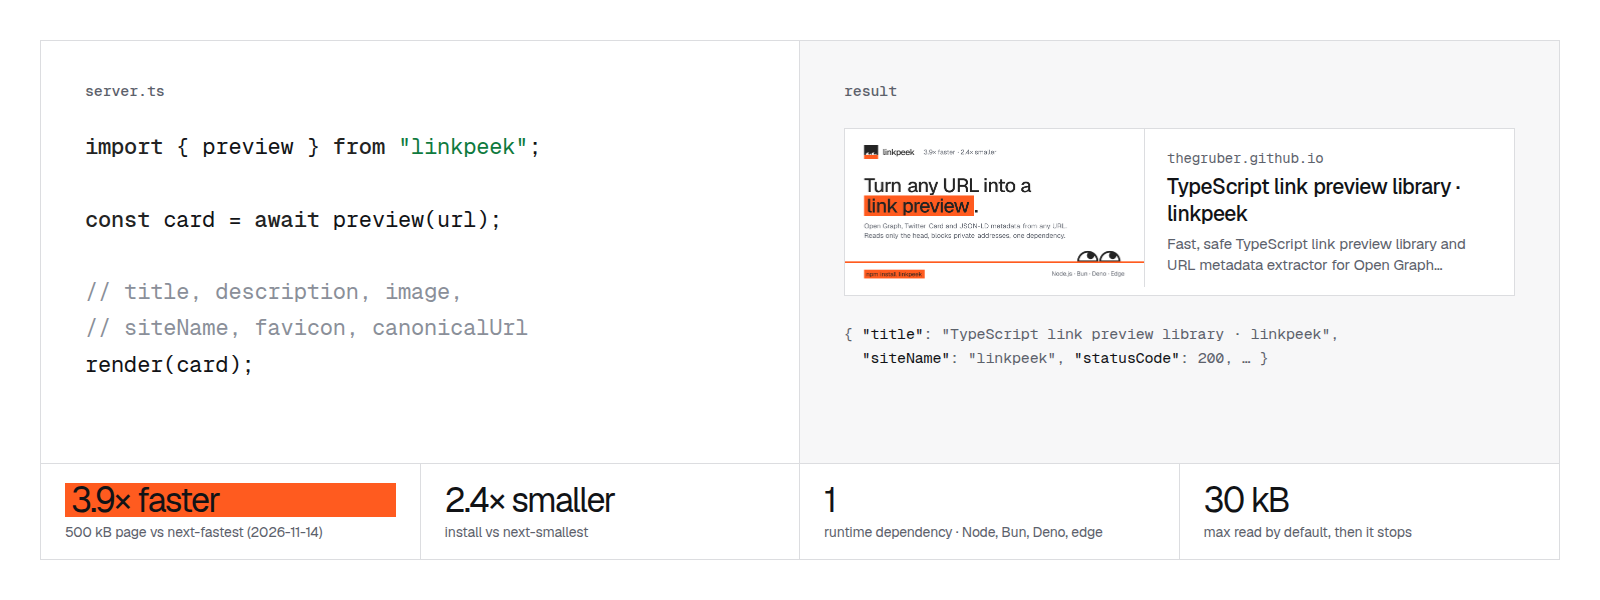
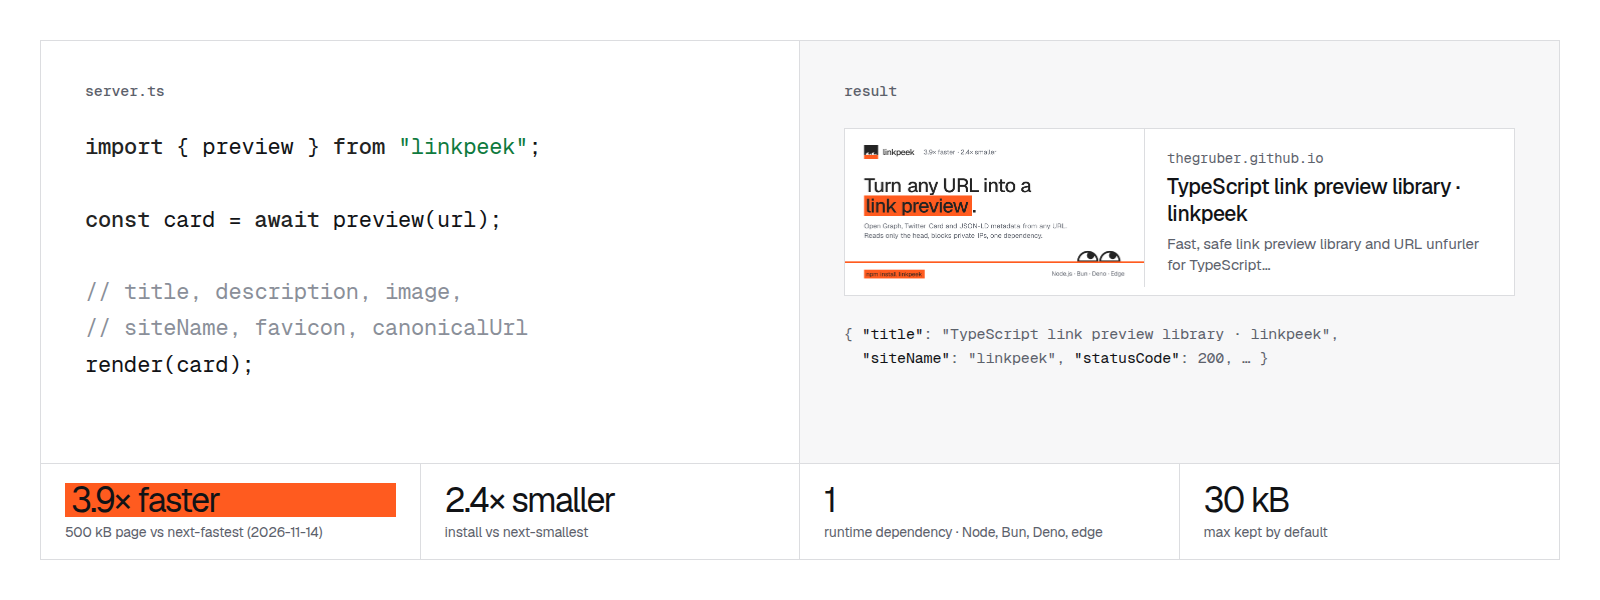
feat(brand): plain wordmark, and social images without overclaims
Underlining only "link" split the name in two and read like a hover
state at header size. The mark already carries the orange band. Social
and README images now say "blocks private IPs" and "max kept".

diff --git a/website/app/og/[...slug]/route.tsx b/website/app/og/[...slug]/route.tsx
@@ -20,7 +20,7 @@ export async function GET(
 		: "Turn any URL into a link preview.";
 	const description =
 		page?.data.description ??
-		"Open Graph, Twitter Card and JSON-LD metadata from any URL. Reads only the head, blocks private addresses, one dependency.";
+		"Open Graph, Twitter Card and JSON-LD metadata from any URL. Reads only the head, blocks private IPs, one dependency.";
 	const section = page
 		? page.slugs[0] === "integrations"
 			? "Integration guide"
@@ -90,7 +90,7 @@ export async function GET(
 					) : (
 						<span style={{ display: "flex", flexWrap: "wrap" }}>
 							Turn any URL into a&nbsp;
-							<span style={{ background: "#ff5b1f", padding: "0 10px" }}>
+							<span style={{ background: "#ff5b1f", padding: "0 6px" }}>
 								link preview
 							</span>
 							.

diff --git a/website/components/logo.tsx b/website/components/logo.tsx
@@ -27,12 +27,7 @@ export function Logo() {
 	return (
 		<span className="group/logo inline-flex items-center gap-2 font-medium text-[1.05rem] tracking-[-0.045em]">
 			<Mark />
-			<span>
-				<span className="underline decoration-[#ff5b1f] decoration-[0.14em] underline-offset-[0.18em]">
-					link
-				</span>
-				peek
-			</span>
+			<span>linkpeek</span>
 		</span>
 	);
 }

diff --git a/AGENTS.md b/AGENTS.md
@@ -29,7 +29,7 @@
 - `npm run build --prefix website` also runs `scripts/check-site.mjs` (one H1, canonical, social tags, JSON-LD, Markdown twins, links, sitemap). Keep it passing.
 
 ## Brand
-- The mark is two white eyes peeking over a signal-orange `#ff5b1f` band (the `<head>`) on a charcoal `#232323` square; in the wordmark "link" is underlined in the same orange, like a hyperlink. Orange is ours: blue is the category default and green belongs to the similarly named getlinkpeek.com. Geometry lives in `website/lib/mark.json` and drives the logo, favicon and the giant dithered art. Brand files are in `assets/brand/`.
+- The mark is two white eyes peeking over a signal-orange `#ff5b1f` band (the `<head>`) on a charcoal `#232323` square; the wordmark is plain "linkpeek" in Geist Medium, with no partial underline (it split the name and read like a hover state). Orange is ours: blue is the category default and green belongs to the similarly named getlinkpeek.com. Geometry lives in `website/lib/mark.json` and drives the logo, favicon and the giant dithered art. Brand files are in `assets/brand/`.
 - Light only, like a printed spec sheet (inspired by aspensearch.com, not copied): white paper, charcoal ink `#232323`, 1px charcoal rules cutting the page into rectangles, light grey `#d9d9d9` for big shapes, pale orange `#ffe6dc` blocks and signal orange `#ff5b1f` as the only colour (it marks what linkpeek reads). Ordered-dither canvas art is the only texture. Geist for text, Geist Mono for small uppercase labels, code and data. Square corners.
 
 ## Demo preview endpoint
